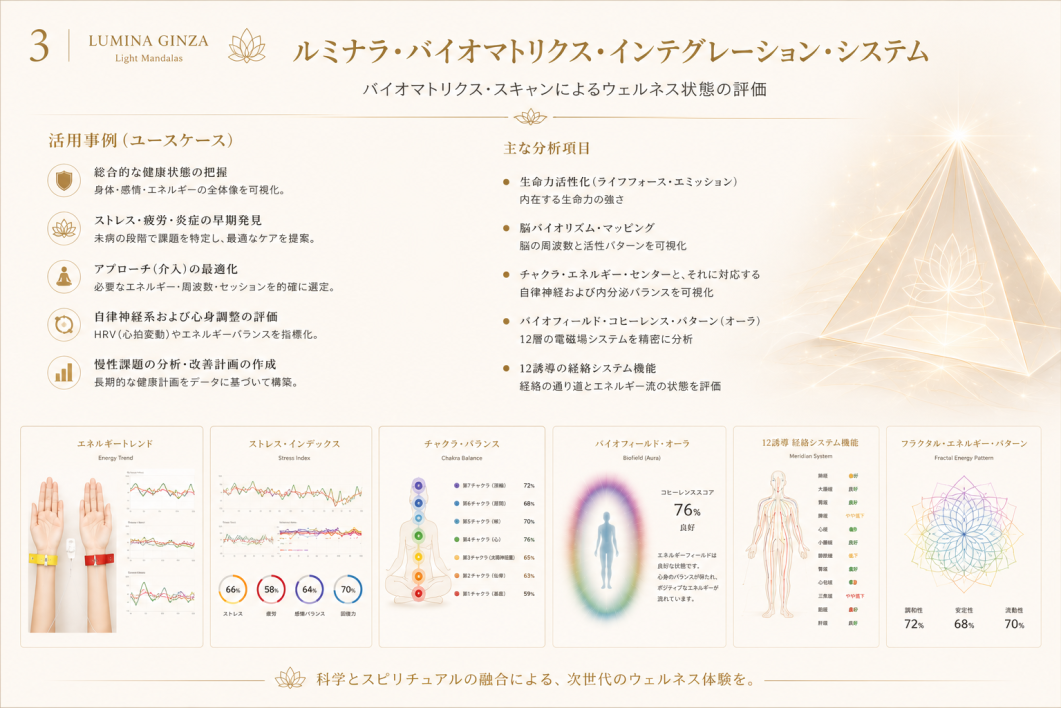
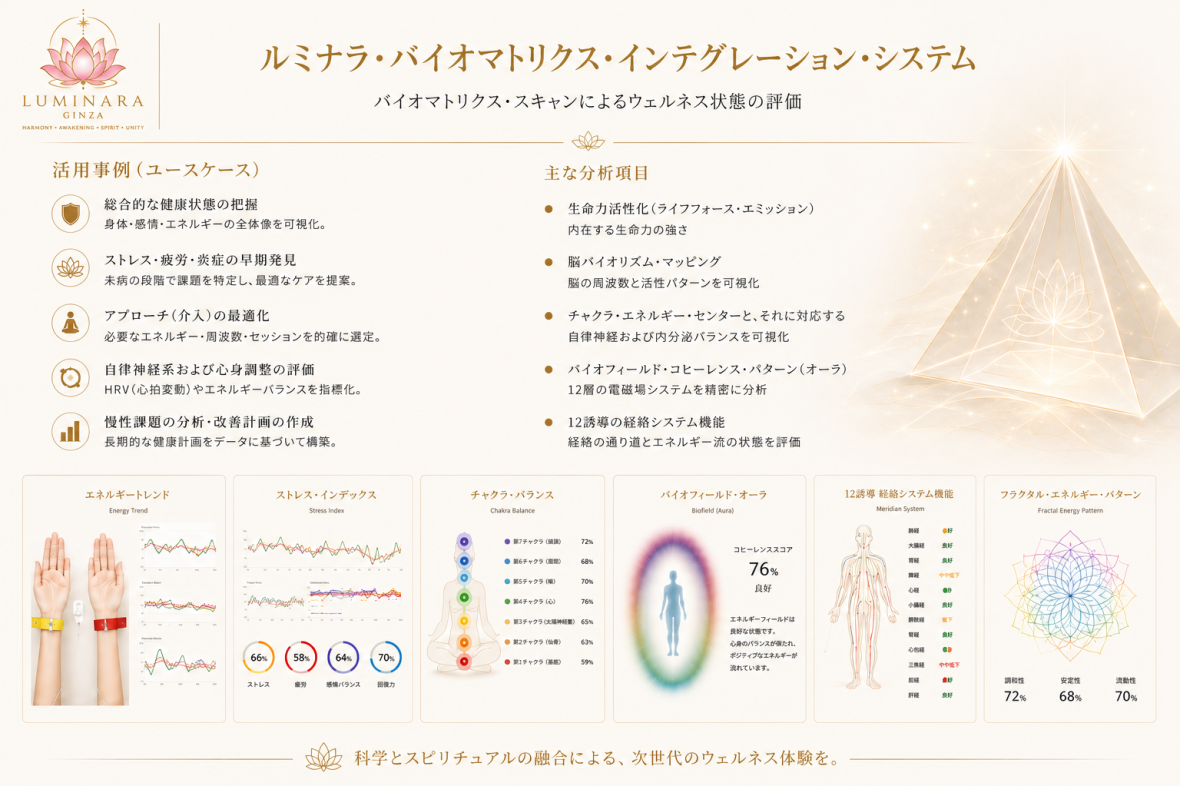
Update system section image and label

diff --git a/index.html b/index.html
@@ -112,7 +112,7 @@
 
       <section class="section how" id="how" aria-labelledby="how-title">
         <div class="section-heading">
-          <span class="section-kicker">HAW IT WORKS</span>
+          <span class="section-kicker">SYSTEM</span>
           <h2 id="how-title">体験の流れ</h2>
         </div>
         <div class="how-gallery">